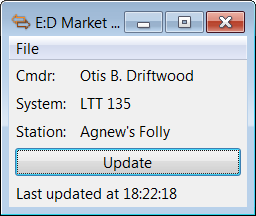
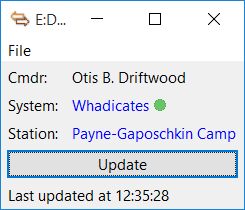
Show systems new to EDSM with a star.

diff --git a/edsm.py b/edsm.py
@@ -19,6 +19,7 @@ class EDSM:
[5 lines of base64/hex data omitted]
 
     def start_lookup(self, system_name):
@@ -40,7 +41,7 @@ class EDSM:
 
             if data == -1:
                 # System not present - create it
-                result['img'] = EDSM._IMG_NOTFOUND
+                result['img'] = EDSM._IMG_NEW
                 result['done'] = True	# give feedback immediately
                 requests.get('http://www.edsm.net/api-v1/url?sysname=%s' % urllib.quote(system_name), timeout=EDSM._TIMEOUT)	# creates system
             elif data.get('coords'):
